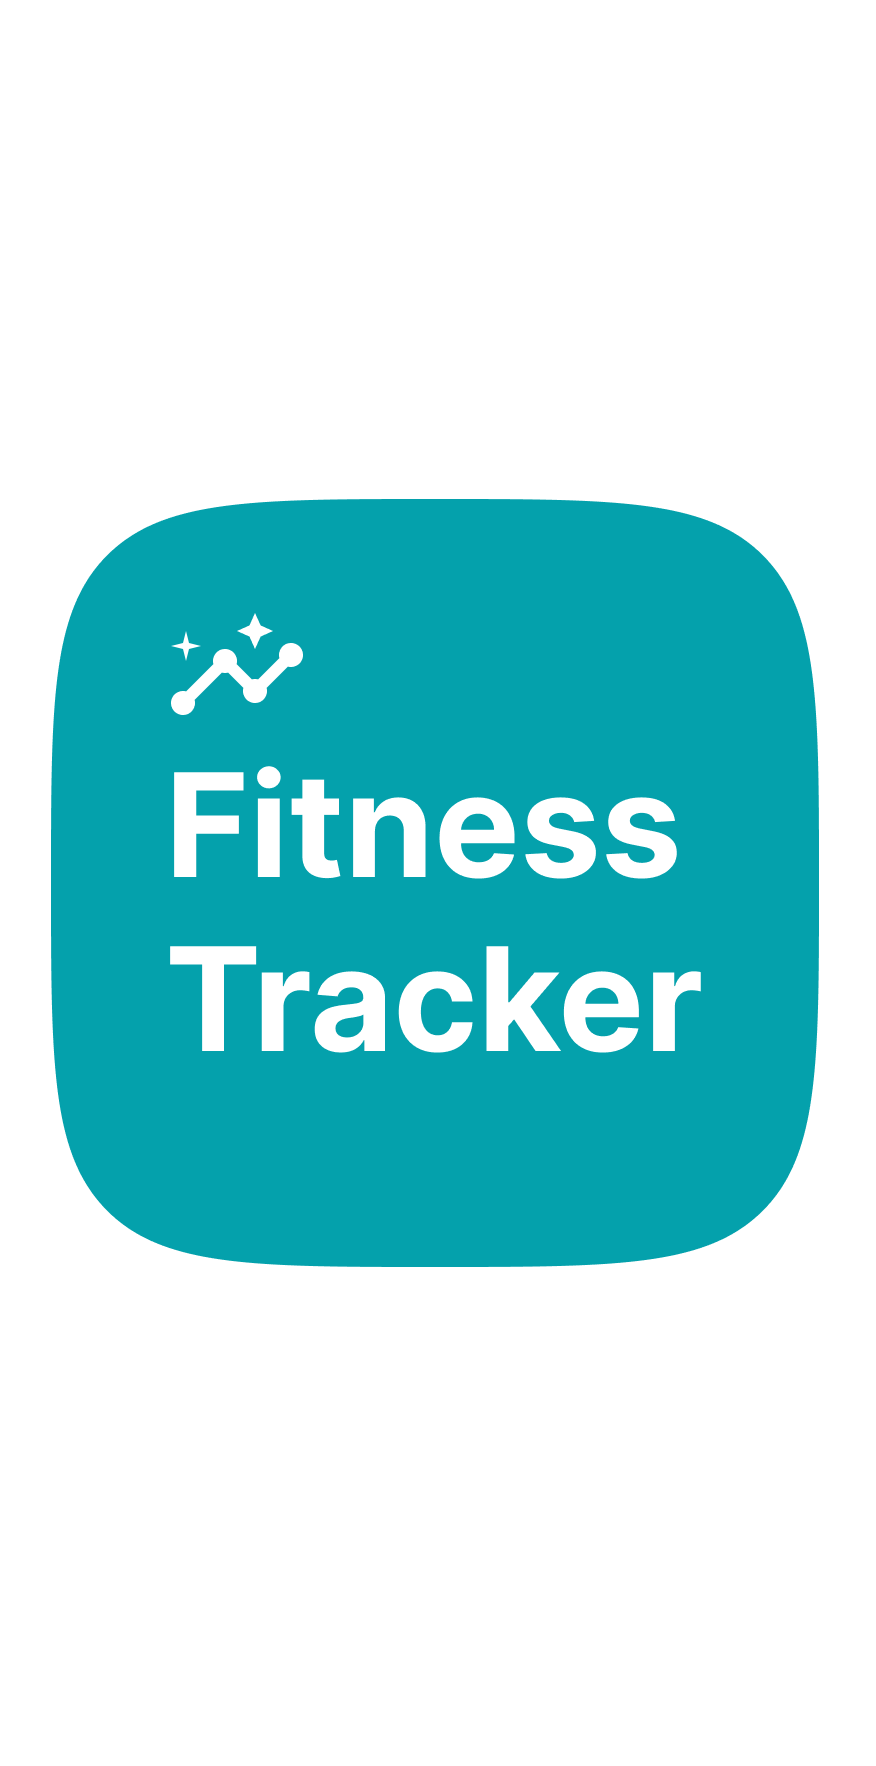
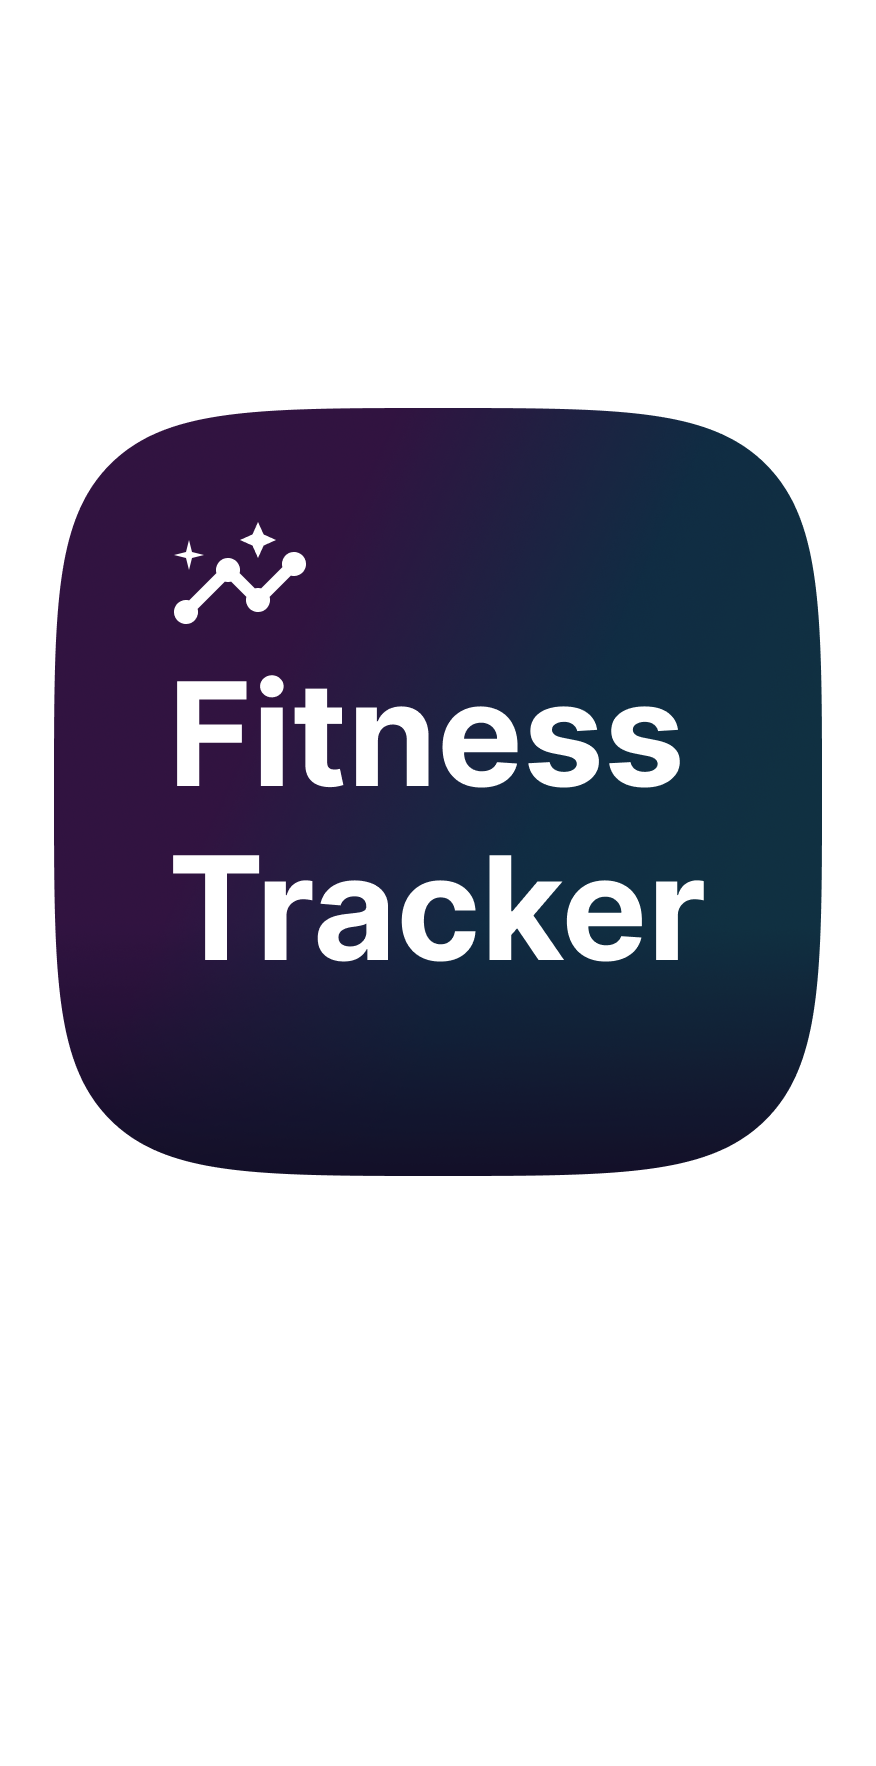
docs: Update documentation landing

diff --git a/docs/src/pages/index.module.css b/docs/src/pages/index.module.css
@@ -3,11 +3,40 @@
  * and scoped locally.
  */
 
+.wrapper {
+  background-color: #FFFFFF;
+  background-image: linear-gradient(179.04deg, rgb(214, 246, 248) 0.82%, rgb(245, 222, 244) 47.44%, rgb(214, 250, 246) 99.18%);
+}
+
+[data-theme='dark'] .wrapper {
+  background-color: #130F28;
+  background-image: linear-gradient(180deg, rgba(0, 0, 0, 0.6) 67.19%, rgba(0, 0, 0, 0.85) 100%), linear-gradient(114.47deg, rgba(205, 38, 191, 0.4) 30.75%, rgba(0, 194, 207, 0.4) 59.79%, rgba(0, 220, 197, 0.4) 82.38%); 
+}
+
 .heroBanner {
   padding: 4rem 0;
   text-align: center;
   position: relative;
   overflow: hidden;
+}
+
+.heroTitle {
+  font-size: 3rem;
+  display: block;
+  font-family: "dm sans", sans-serif;
+  font-weight: 700;
+  background: linear-gradient(90.09deg, #cc30b9 40.34%, #57c1ce 49.26%, #66ddc6 78.13%);
+  -webkit-background-clip: text;
+  -webkit-text-fill-color: transparent;
+  background-clip: text;
+}
+
+.heroSubtitle {
+  color: #000000;
+}
+
+[data-theme='dark'] .heroSubtitle {
+  color: #FFFFFF;
 }
 
 @media screen and (max-width: 996px) {

diff --git a/docs/src/pages/index.tsx b/docs/src/pages/index.tsx
@@ -59,11 +59,13 @@ function Home() {
   return (
     <Layout
       title={`Hello from ${siteConfig.title}`}
-      description="Description will go into a meta tag in <head />">
-      <header className={clsx('hero hero--primary', styles.heroBanner)}>
+      description="Description will go into a meta tag in <head />"
+      wrapperClassName={styles.wrapper}
+      noFooter>
+      <header className={styles.heroBanner}>
         <div className="container">
-          <h1 className="hero__title">{siteConfig.title}</h1>
-          <p className="hero__subtitle">{siteConfig.tagline}</p>
+          <h1 className={styles.heroTitle}>{siteConfig.title}</h1>
+          <p className={styles.heroSubtitle}>{siteConfig.tagline}</p>
           <div className={styles.buttons}>
             <Link
               className={clsx(

diff --git a/docs/docusaurus.config.js b/docs/docusaurus.config.js
@@ -6,8 +6,8 @@ const darkCodeTheme = require('prism-react-renderer/themes/dracula');
 
 /** @type {import('@docusaurus/types').Config} */
 const config = {
-  title: 'FitnessTracker',
-  tagline: 'React Native library for GoogleFit and HealthKit integration via single API',
+  title: 'Fitness Tracker',
+  tagline: 'React Native library for Google Fit and HealthKit integration via single API',
   url: 'https://kilohealth.github.io',
   baseUrl: '/rn-fitness-tracker/',
   onBrokenLinks: 'throw',
